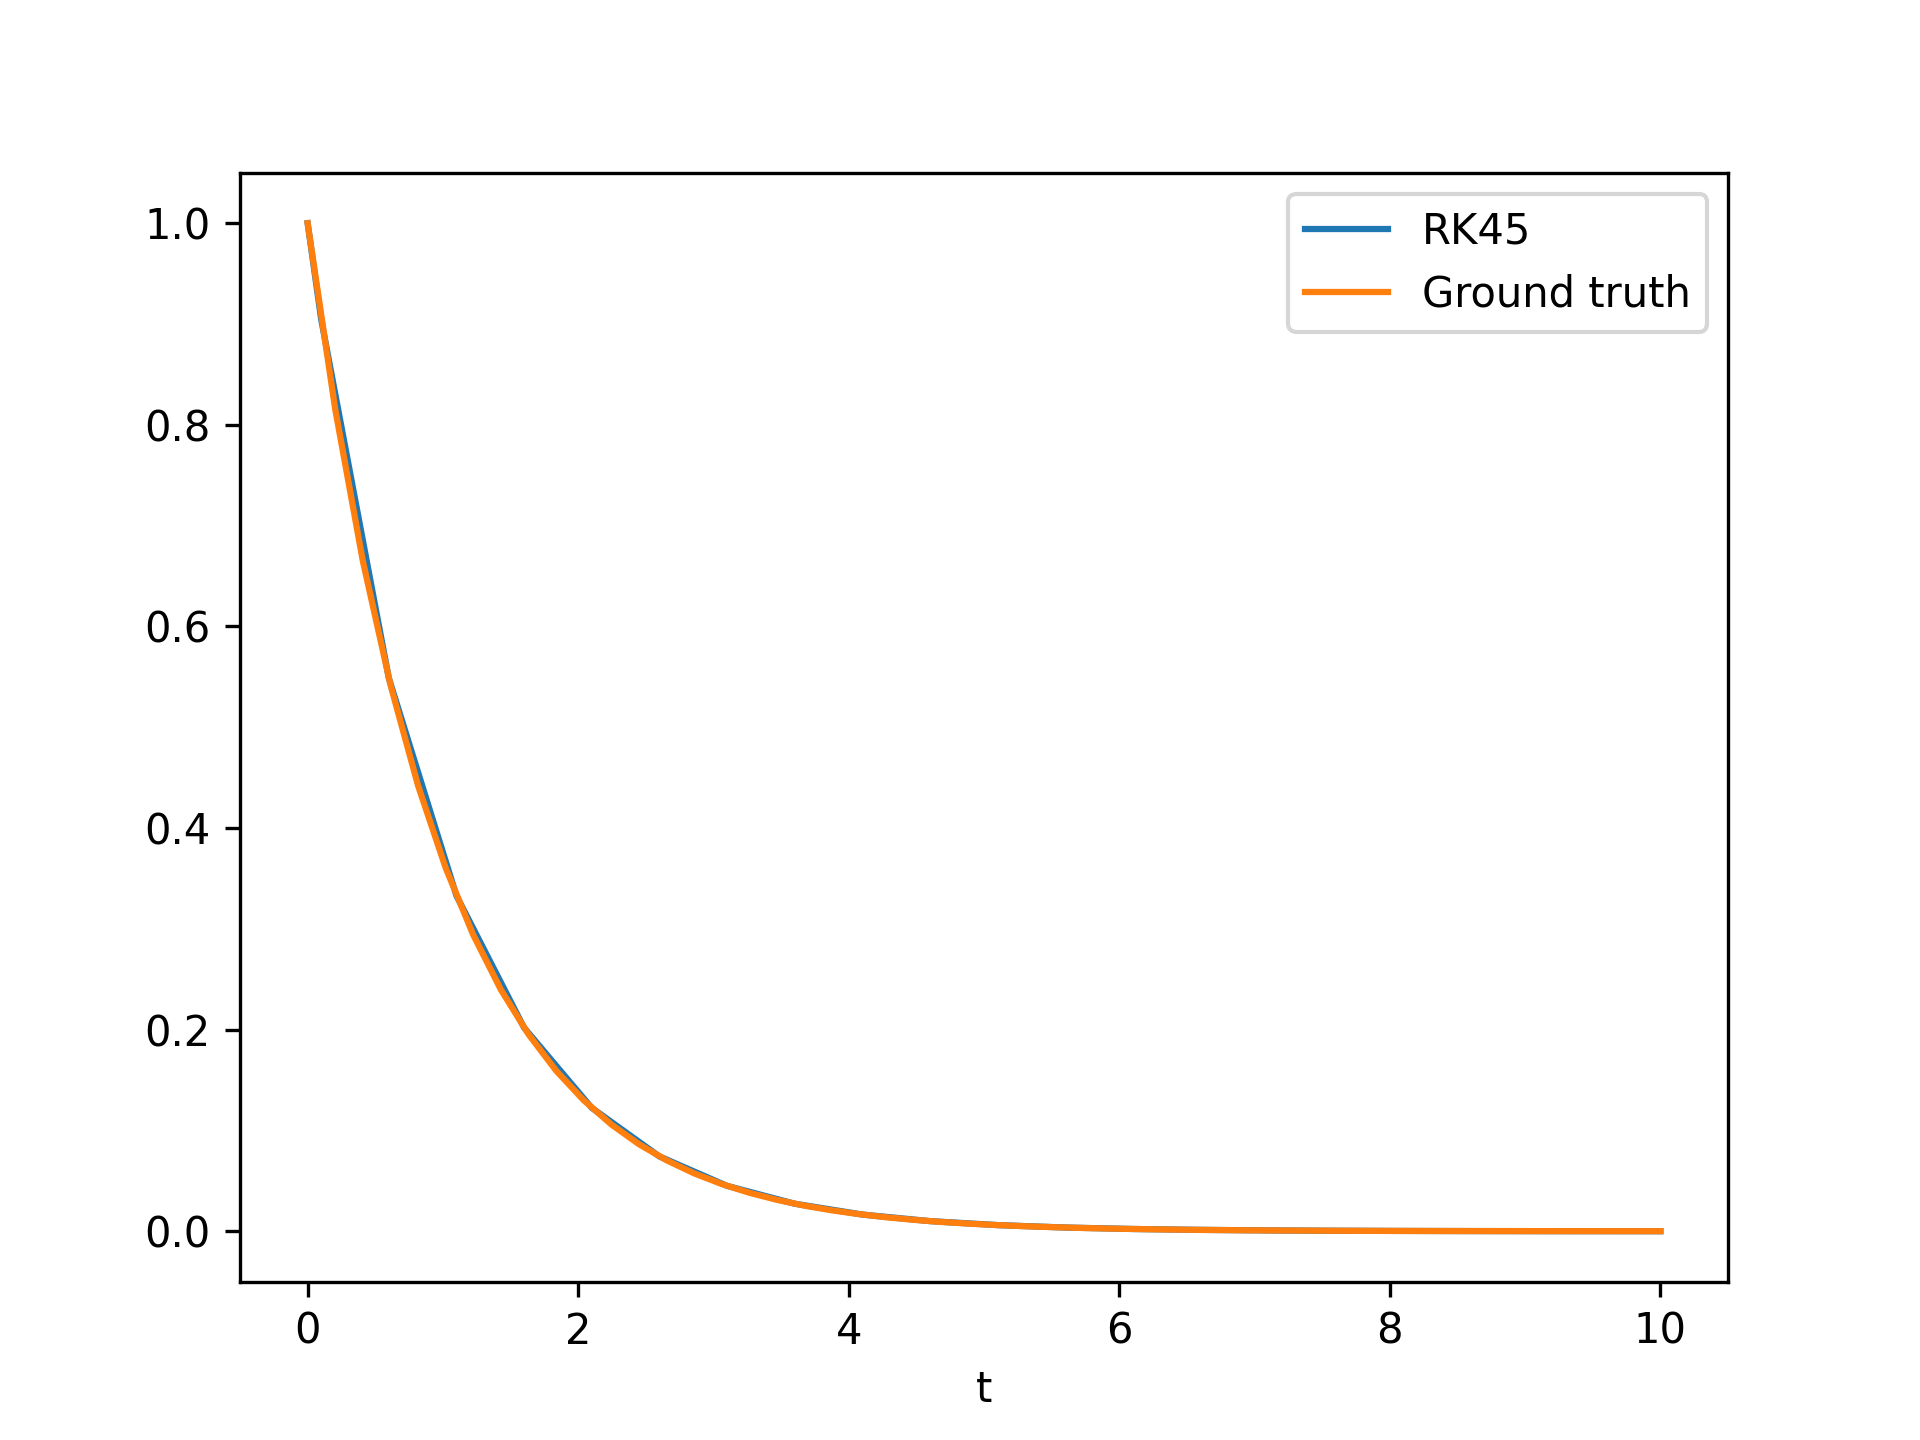
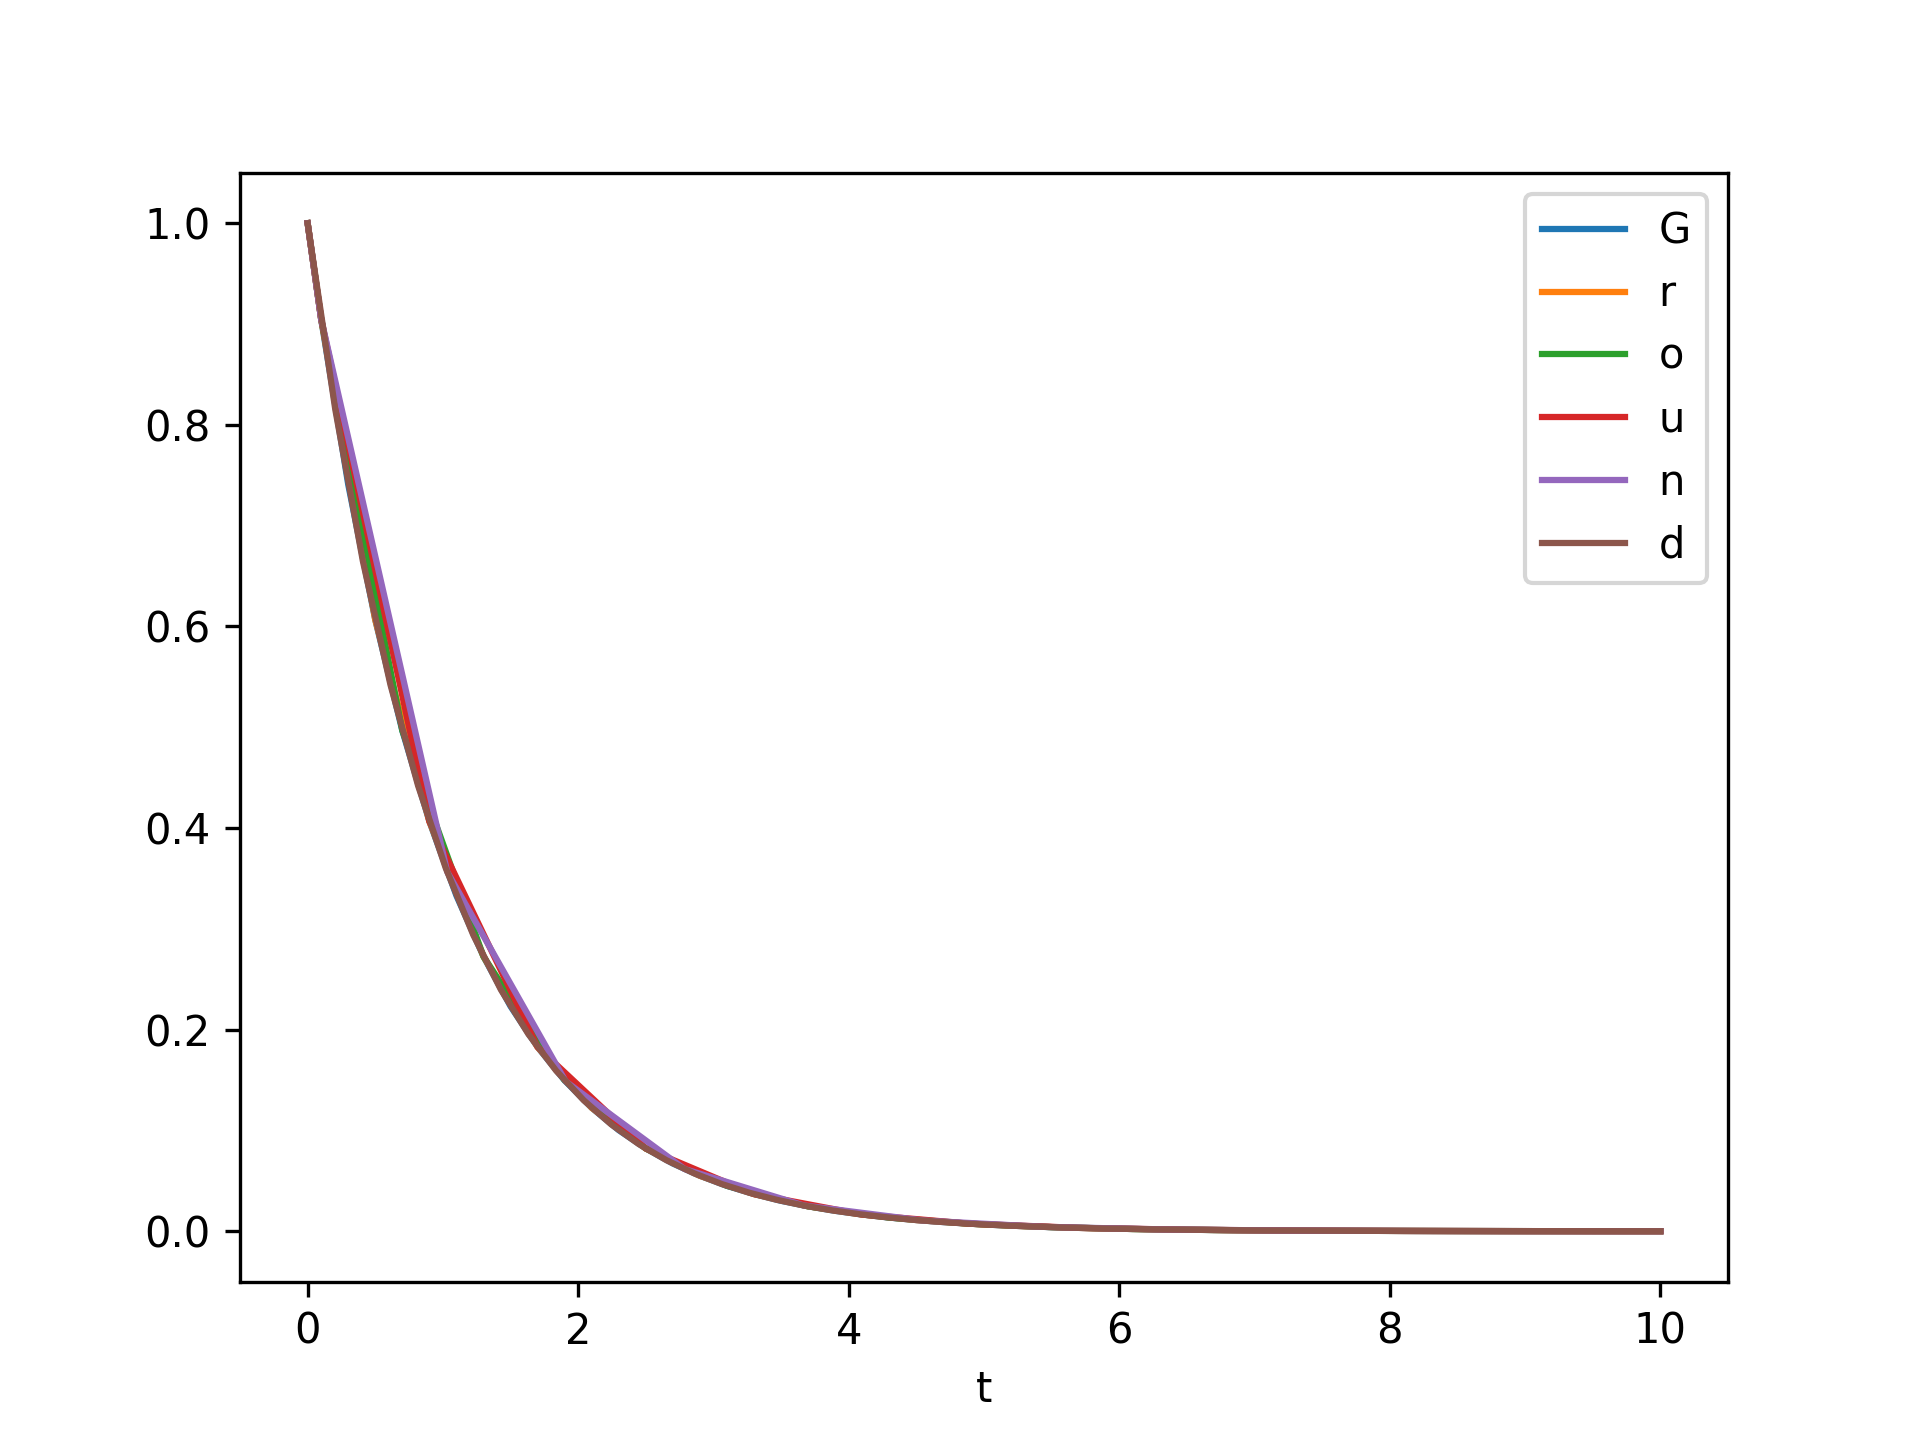
MSE added

diff --git a/z_scipy.py b/z_scipy.py
@@ -1,6 +1,7 @@
 import numpy as np
 import matplotlib.pyplot as plt
 from scipy.integrate import solve_ivp
+from sklearn.metrics import mean_squared_error
 
 def true_sol(t):
     return np.exp(-1*t)
@@ -11,13 +12,41 @@ def rhs(t, z):
 T = 10
 z0 = np.array([1])
 
-sol = solve_ivp(lambda t,z: rhs(t, z), t_span=[0, T], y0=z0, max_step=0.1)
+steps = [0.2, 0.4, 0.6, 0.8, 1]
 
-t = np.linspace(0, T)
+for step in steps:
+    sol = solve_ivp(lambda t,z: rhs(t, z), t_span=[0, T], y0=z0, max_step=step)
+    t = np.linspace(0, T)
+    mse = mean_squared_error(true_sol(t), sol.y.T)
+    plt.plot(step, mse)
+    plt.legend(step)
+    plt.xlabel('step')
+    plt.ylabel('MSE')
+
+
+#plt.legend('Ground truth')
+plt.savefig('sol_z.png', dpi=300)
+plt.show()
+
+
+
+
+
+
+
+"""
+for step in steps:
+    sol = solve_ivp(lambda t,z: rhs(t, z), t_span=[0, T], y0=z0, max_step=step)
+    t = np.linspace(0, T)
+    plt.plot(sol.t, sol.y.T)
+    label = 'RK-45'
+    plt.legend('RK-45',)
+
+
 sol_true = true_sol(t)
 
-plt.plot(sol.t, sol.y.T)
 plt.plot(t, sol_true)
 plt.xlabel('t')
-plt.legend(['RK45', 'Ground truth'])
+plt.legend('Ground truth')
 plt.savefig('sol_z.png', dpi=300)
+"""
